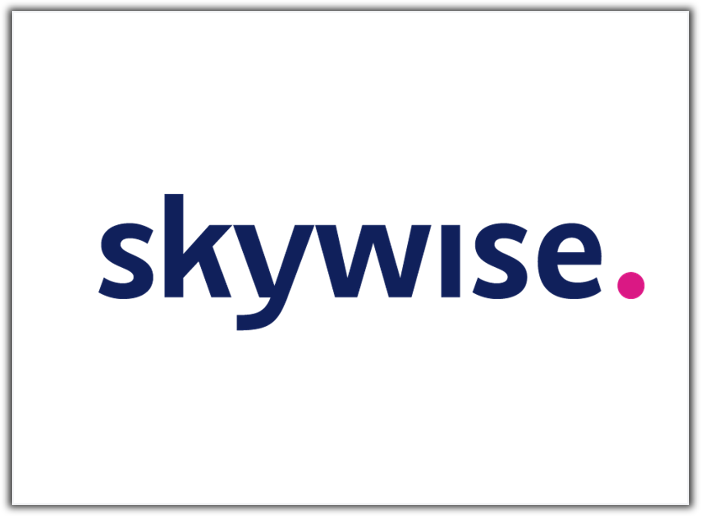
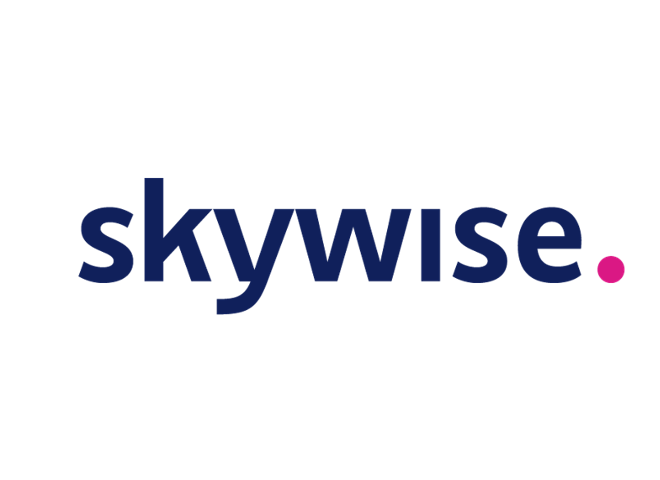
Small tweaks
Add education periods
Remove border in Skywise logo

Changed region(s): [[0.0, 0.0, 1.0, 1.0]]

diff --git a/index.html b/index.html
@@ -627,7 +627,9 @@
                 <p>
                   <b>Degree: </b>Master of Science in Data Science      
                   <br>
-                  <b>Ongoing </b>
+                  <b>From: </b>December 2021 <b>To: </b>December 2023
+                  <br>
+                  <b>CGPA: </b>Ongoing 
                 </p>
 
                 <ul>
@@ -657,6 +659,8 @@
                 <p>
                   <b>Degree: </b>Pharmacist
                   <br>
+                  <b>From: </b>September 2013 <b>To: </b>July 2018
+                  <br>
                   <b>CGPA: </b>7.42/10
                 </p>
               </div>
@@ -676,7 +680,7 @@
             <div class="card">
               <div class="card-content">
                 <p>
-                  <span class="card-title"><a target="_blank" class="teal-text hoverline">Awards</a></span>
+                  <span class="card-title"><p class="teal-text hoverline">Awards</p></span>
                 </p>
                 <p>
                   Airbus 4<sup>th</sup> Year Anniversary: Legacy Terminator team Best Performer    
@@ -690,19 +694,19 @@
             <div class="card">
               <div class="card-content">
                 <p>
-                  <span class="card-title"><a target="_blank" class="teal-text hoverline">Certificates</a></span>
+                  <span class="card-title"><p class="teal-text hoverline">Certificates</p></span>
                 </p>
                 <p class="brown-text"><b>Microsoft</b></p>
                 <ul>
-                  <li href="https://www.credly.com/badges/8aee11dc-6216-4e87-8eda-e4be42bf7705/public_url/">Azure Data Engineer Associate</li>
-                  <li href="https://www.credly.com/badges/b64f347c-a306-46c8-8377-819f83f84c19/public_url/">Azure Data Scientist Associate</li>
-                  <li href="https://www.credly.com/badges/a48233a3-8e17-42b2-a085-fcb0df0a673a/public_url/">Azure Fundamentals</li>
+                  <li><a href="https://www.credly.com/badges/8aee11dc-6216-4e87-8eda-e4be42bf7705/public_url/" target="_blank" >Azure Data Engineer Associate </a></li>
+                  <li><a href="https://www.credly.com/badges/b64f347c-a306-46c8-8377-819f83f84c19/public_url/" target="_blank" >Azure Data Scientist Associate </a></li>
+                  <li><a href="https://www.credly.com/badges/a48233a3-8e17-42b2-a085-fcb0df0a673a/public_url/" target="_blank" >Azure Fundamentals </a></li>
                 </ul>
                 <p class="brown-text"><b>Coursera</b></p>
                 <ul>
-                  <li href="https://coursera.org/share/7e404a0615537ae109bbf4cf05e54907/">IBM Data Engineering</li>
-                  <li href="https://coursera.org/share/92f0264db11e7d04ae6c25a07dddabf0/">IBM Data Science</li>
-                  <li href="https://coursera.org/share/656e4e41494db24ae200007bed00d23a/">IBM Data Analyst</li>
+                  <li><a href="https://coursera.org/share/7e404a0615537ae109bbf4cf05e54907/" target="_blank" >IBM Data Engineering </a></li>
+                  <li><a href="https://coursera.org/share/92f0264db11e7d04ae6c25a07dddabf0/" target="_blank" >IBM Data Science </a></li>
+                  <li><a href="https://coursera.org/share/656e4e41494db24ae200007bed00d23a/" target="_blank" >IBM Data Analyst </a></li>
                 </ul>
               </div>
             </div>
